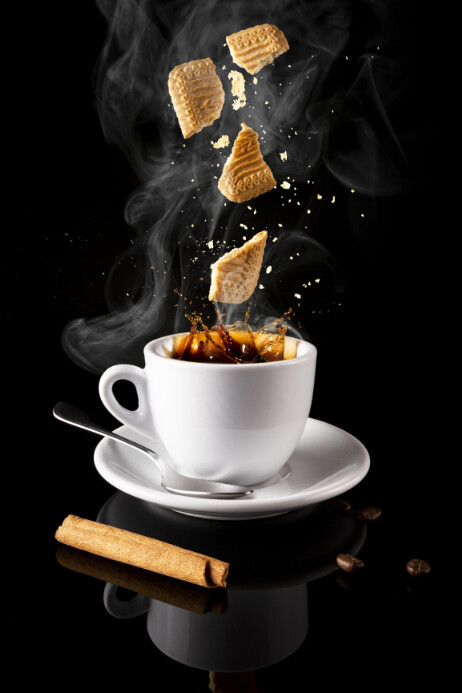
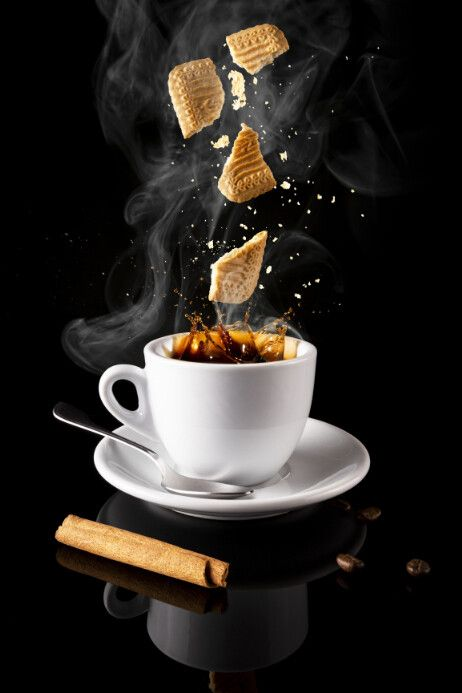
JS va CSS xatolari, telefon moslashuvi, yengilroq yuklash
- '#' havolalarda querySelector('#') xato tashlardi
- var(coffee-accent) va calc(100vh-80px) noto'g'ri yozilgan edi
- Playfair Display umuman yuklanmasdi (Playfair yuklanardi); 9 ta shrift oilasidan faqat ishlatiladigan 2 tasi qoldi
- Takrorlangan uchinchi mahsulot, imlo xatolari, ikki marta yozilgan hero matni
- Telefon/planshet uchun moslashuv (menyu ekrandan chiqib ketardi)
- Rasmlar 1,2 MB -> 0,23 MB; lazy loading; tel/mailto havolalar; aria-label

Claude-Session: https://claude.ai/code/session_01LfzHKtRv92dvGVgsJSPaAs

diff --git a/index.html b/index.html
@@ -6,7 +6,8 @@
     <meta name="viewport" content="width=device-width, initial-scale=1.0">
     <script src="./script.js" defer></script>
     <link rel="stylesheet" href="./style.css">
-    <title>Coffee Shop Website</title>
+    <title>BrewHaven — Artisan Coffee Roasters</title>
+    <meta name="description" content="BrewHaven: ethically sourced, freshly roasted artisan coffee blends.">
     <!--Link to font awesome for inserting icons -->
     <link rel="stylesheet" href="https://cdnjs.cloudflare.com/ajax/libs/font-awesome/7.0.1/css/all.min.css"
         integrity="sha512-2SwdPD6INVrV/lHTZbO2nodKhrnDdJK9/kg2XD1r9uGqPo1cUbujc+IYdlYdEErWNu69gVcYgdxlmVmzTWnetw=="
@@ -16,7 +17,7 @@
     <link rel="preconnect" href="https://fonts.googleapis.com">
     <link rel="preconnect" href="https://fonts.gstatic.com" crossorigin>
     <link
-        href="https://fonts.googleapis.com/css2?family=IBM+Plex+Serif:ital,wght@0,100;0,200;0,300;0,400;0,500;0,600;0,700;1,100;1,200;1,300;1,400;1,500;1,600;1,700&family=Lexend+Deca:wght@100..900&family=Lora:ital,wght@0,400..700;1,400..700&family=Montserrat:ital,wght@0,100..900;1,100..900&family=Playfair:ital,opsz,wght@0,5..1200,300..900;1,5..1200,300..900&family=Roboto+Condensed:ital,wght@0,100..900;1,100..900&family=Roboto:ital,wght@0,100..900;1,100..900&family=Sora:wght@100..800&family=Spectral+SC:ital,wght@0,200;0,300;0,400;0,500;0,600;0,700;0,800;1,200;1,300;1,400;1,500;1,600;1,700;1,800&display=swap"
+        href="https://fonts.googleapis.com/css2?family=Montserrat:wght@400;500;600;700&family=Playfair+Display:wght@700;900&display=swap"
         rel="stylesheet">
     <!--Link to css file-->
 </head>
@@ -25,17 +26,17 @@
 
     <header>
         <div class="container header-container">
-            <a href="#" class="logo">
+            <a href="#" class="logo" aria-label="BrewHaven — home">
                 <!-- now insert coffee cup icons here-->
-                <i class="fa-solid fa-mug-hot logo-icon"></i>
+                <i class="fa-solid fa-mug-hot logo-icon" aria-hidden="true"></i>
                 <div class="logo-text">Brew<span>Haven</span></div>
             </a>
             <nav>
                 <ul class="nav-list">
                     <li><a href="#">Home</a></li>
                     <li><a href="#products">Products</a></li>
-                    <li><a href="#">Locations</a></li>
-                    <li><a href="#">Contact</a></li>
+                    <li><a href="#contact">Locations</a></li>
+                    <li><a href="#contact">Contact</a></li>
                 </ul>
             </nav>
 
@@ -58,16 +59,14 @@
                 <h1 class="hero-title">Artisan Coffee <br> <span>Crafted with Passion</span></h1>
 
                 <p class="hero-text">Experience the rich aroma and bold flavors of our hand-selected coffee beans,
-                    roasted to perfection for a truly exceptional cup. Experience the rich aroma and bold flavors of our
-                    hand-selected coffee beans,
-                    roasted to perfection for a truly exceptional cup.</p>
+                    roasted to perfection for a truly exceptional cup. Every blend is small-batch roasted and delivered fresh.</p>
 
                 <div class="hero-buttons">
                     <a href="#products" class="btn btn-primary">Explore Our Blends</a>
-                    <a href="#" class="btn btn-secondary">Visit Our Cafe</a>
+                    <a href="#contact" class="btn btn-secondary">Visit Our Cafe</a>
                 </div>
             </div>
-            <img src="1.jpg" alt="" width="370px">
+            <img class="hero-img" src="1.jpg" alt="A freshly brewed cup of coffee" width="370" height="555">
         </div>
 
     </section>
@@ -77,7 +76,7 @@
         <div class="container">
             <div class="section-header">
                 <div class="section-subtitle">Our Selection</div>
-                <h2 class="section-title">Signature is Blends</h2>
+                <h2 class="section-title">Signature Blends</h2>
                 <p class="section-desc">Discover our carefully curated selection of signature blends, each crafted to
                     deliver a unique and unforgettable coffee experience. From bold and robust to smooth and mellow, our
                     blends are designed to satisfy every palate.</p>
@@ -86,7 +85,7 @@
             <div class="product-grid">
                 <div class="product-card">
                     <div class="product-img">
-                        <img src="2.jpeg" alt="Ehtiopia Yirgacheffe">
+                        <img src="2.jpeg" alt="Ethiopia Yirgacheffe" loading="lazy">
                     </div>
                     <div class="product-info">
                         <div class="product-tag">BEST SELLER</div>
@@ -107,7 +106,7 @@
 
                 <div class="product-card">
                     <div class="product-img">
-                        <img src="3.jpg" alt="Colombia Supremo">
+                        <img src="3.jpg" alt="Colombia Supremo" loading="lazy">
                     </div>
                     <div class="product-info">
                         <div class="product-tag">NEW</div>
@@ -129,14 +128,14 @@
 
                 <div class="product-card">
                     <div class="product-img">
-                        <img src="4.jpg" alt="Colombia Supremo">
+                        <img src="4.jpg" alt="Brazil Santos" loading="lazy">
                     </div>
                     <div class="product-info">
-                        <div class="product-tag">NEW</div>
-                        <h3 class="product-title">Colombia Supremo</h3>
-                        <p class="product-desc">A smooth and balanced coffee with notes of chocolate and caramel</p>
+                        <div class="product-tag">CLASSIC</div>
+                        <h3 class="product-title">Brazil Santos</h3>
+                        <p class="product-desc">A nutty, low-acidity coffee with notes of cocoa and toasted almond</p>
                         <div class="product-footer">
-                            <div class="product-price">$16.99</div>
+                            <div class="product-price">$15.99</div>
                             <div class="rating">
                                 <i class="fa-solid fa-star"></i>
                                 <i class="fa-solid fa-star"></i>
@@ -153,7 +152,7 @@
         </div>
     </section>
     <!-- Footer -->
-    <footer>
+    <footer id="contact">
 
         <div class="container">
 
@@ -161,14 +160,14 @@
                 <div class="footer-column">
 
                     <h3>About BrewHaven</h3>
-                    <p style="color: var(coffee-accent); margin-bottom: 20px;">Artisan coffee roaters dedicate to
-                        quality, sustainbility, and the perfect cup</p>
+                    <p class="footer-about">Artisan coffee roasters dedicated to
+                        quality, sustainability, and the perfect cup</p>
                     <div class="social-links">
 
-                        <a href="#"><i class="fa-brands fa-facebook-f"></i></a>
-                        <a href="#"><i class="fa-brands fa-instagram"></i></a>
-                        <a href="#"><i class="fa-brands fa-twitter"></i></i></a>
-                        <a href="#"><i class="fa-brands fa-telegram"></i></a>
+                        <a href="#" aria-label="Facebook"><i class="fa-brands fa-facebook-f" aria-hidden="true"></i></a>
+                        <a href="#" aria-label="Instagram"><i class="fa-brands fa-instagram" aria-hidden="true"></i></a>
+                        <a href="#" aria-label="Twitter"><i class="fa-brands fa-twitter" aria-hidden="true"></i></a>
+                        <a href="#" aria-label="Telegram"><i class="fa-brands fa-telegram" aria-hidden="true"></i></a>
                     </div>
                 </div>
                 <div class="footer-column">
@@ -184,16 +183,16 @@
                 <div class="footer-column">
                     <h3>Contact Us</h3>
                     <ul class="footer-links">
-                        <li><i class="fa-solid fa-location-dot"></i> 123 Coffee Lane, Portland, OR</li>
-                        <li><i class="fa-solid fa-phone"></i>(+998) 97 770 94 30</li>
-                        <li><i class="fa-solid fa-envelope"></i>odiltiu@gmail.com</li>
-                        <li><i class="fa-solid fa-clock"></i>Mon-Sat: 7AM-8PM</li>
+                        <li><i class="fa-solid fa-location-dot" aria-hidden="true"></i> 123 Coffee Lane, Portland, OR</li>
+                        <li><i class="fa-solid fa-phone" aria-hidden="true"></i> <a href="tel:+998977709430">(+998) 97 770 94 30</a></li>
+                        <li><i class="fa-solid fa-envelope" aria-hidden="true"></i> <a href="mailto:odiltiu@gmail.com">odiltiu@gmail.com</a></li>
+                        <li><i class="fa-solid fa-clock" aria-hidden="true"></i> Mon-Sat: 7AM-8PM</li>
                     </ul>
                 </div>
             </div>
 
             <div class="copyright">
-                &copy; 2026 BrewHaven Coffee Roasters. All rights raserved.
+                &copy; 2026 BrewHaven Coffee Roasters. All rights reserved.
             </div> 
         </div>
     </footer>

diff --git a/style.css b/style.css
@@ -152,7 +152,8 @@ nav a:hover::after {
 /* Hero Section */
 
 .hero {
-    height: calc(100vh-80px);
+    /* Tuzatildi: "100vh-80px" bo'sh joysiz yozilgani uchun brauzer bu qatorni e'tiborsiz qoldirardi */
+    min-height: calc(100vh - 80px);
     display: flex;
     align-items: center;
     position: relative;
@@ -499,5 +500,117 @@ footer {
     to {
         opacity: 1;
         opacity: translateY(0);
+    }
+}
+/* Footer: oldin inline style'da var(coffee-accent) xato yozilgan edi */
+.footer-about {
+    color: var(--coffee-accent);
+    margin-bottom: 20px;
+}
+
+.footer-links a {
+    color: inherit;
+}
+
+.hero-img {
+    max-width: 100%;
+    height: auto;
+    border-radius: 16px;
+}
+
+a:focus-visible {
+    outline: 2px solid var(--coffee-gold);
+    outline-offset: 3px;
+}
+
+/* ---------- Planshet va telefon (oldin moslashuv umuman yo'q edi) ---------- */
+@media (max-width: 960px) {
+    .header-container {
+        flex-wrap: wrap;
+        row-gap: 6px;
+    }
+
+    /* Menyu alohida qatorda, kerak bo'lsa gorizontal aylantiriladi */
+    nav {
+        order: 3;
+        width: 100%;
+        overflow-x: auto;
+        scrollbar-width: none;
+    }
+
+    nav ul {
+        gap: 22px;
+        white-space: nowrap;
+    }
+
+    nav a {
+        font-size: 15px;
+    }
+
+    .hero {
+        padding-top: 140px;
+    }
+
+    .hero .container {
+        flex-direction: column;
+        gap: 40px;
+    }
+
+    .hero-title {
+        font-size: 42px;
+    }
+
+    .hero-subtitle {
+        margin-bottom: 30px;
+    }
+
+    .hero-text {
+        margin-bottom: 30px;
+    }
+
+    .section-title {
+        font-size: 34px;
+    }
+
+    .products {
+        padding: 80px 0;
+    }
+}
+
+@media (max-width: 560px) {
+    .logo-text,
+    .logo-icon {
+        font-size: 22px;
+    }
+
+    .nav-button .btn-secondary {
+        display: none;
+    }
+
+    .nav-button .btn {
+        padding: 6px 14px;
+        font-size: 14px;
+    }
+
+    .hero-title {
+        font-size: 34px;
+    }
+
+    .hero-buttons {
+        flex-wrap: wrap;
+    }
+
+    .product-grid {
+        grid-template-columns: 1fr;
+    }
+}
+
+@media (prefers-reduced-motion: reduce) {
+    *,
+    *::before,
+    *::after {
+        animation-duration: 0.01ms !important;
+        transition-duration: 0.01ms !important;
+        scroll-behavior: auto !important;
     }
 }

diff --git a/script.js b/script.js
@@ -1,23 +1,19 @@
 // Smooth scrolling for navigation links
-
-document.querySelectorAll('a[href^="#"]').forEach(anchor => {
-    anchor.addEventListener('click', function(e) {
+// Tuzatildi: href="#" bo'lgan havolada querySelector('#') xato tashlardi.
+// Endi "#" sahifa boshiga olib chiqadi, mavjud bo'lmagan bo'lim esa oddiy havola kabi ishlaydi.
+document.querySelectorAll('a[href^="#"]').forEach((anchor) => {
+    anchor.addEventListener('click', (e) => {
+        const href = anchor.getAttribute('href');
+        if (href === '#') {
+            e.preventDefault();
+            window.scrollTo({ top: 0, behavior: 'smooth' });
+            return;
+        }
+        const target = document.getElementById(href.slice(1));
+        if (!target) return;
         e.preventDefault();
-        document.querySelector(this.getAttribute('href')).scrollIntoView({behavior: 'smooth'});
+        target.scrollIntoView({ behavior: 'smooth' });
     });
 });
 
-// Product hover animations
-
-const productCards = document.querySelectorAll('.product-card');
-productCards.forEach(card => {
-    card.addEventListener('mouseenter', function(){
-        this.style.transform = 'translateY(-15px)';
-
-    });
-card.addEventListener('mouseleave', function(){
-this.style.transform = 'translateY(0)';
-
-
-});
-});
+// Mahsulot kartalaridagi ko'tarilish effekti CSS'dagi .product-card:hover orqali ishlaydi

diff --git a/README.md b/README.md
@@ -1,1 +1,9 @@
-# BrewHaven-nomli-1-website-design-toliq
+# BrewHaven — kofe do'koni sayti
+
+Kofe do'koni uchun bir sahifali landing sayt dizayni (HTML, CSS, JavaScript).
+
+- Header, hero, mahsulotlar (Signature Blends) va footer bo'limlari
+- Telefon va planshetga moslashgan
+- Shriftlar: Montserrat (matn) va Playfair Display (sarlavhalar), ikonkalar: Font Awesome
+
+Ishga tushirish: `index.html` ni brauzerda oching.
